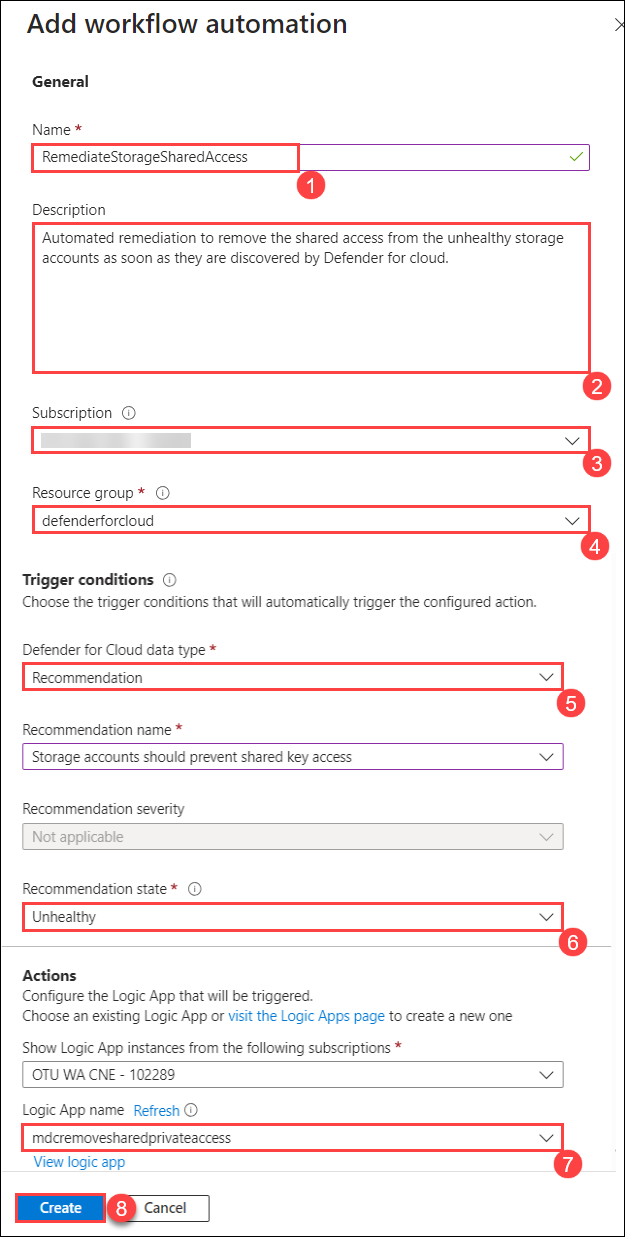
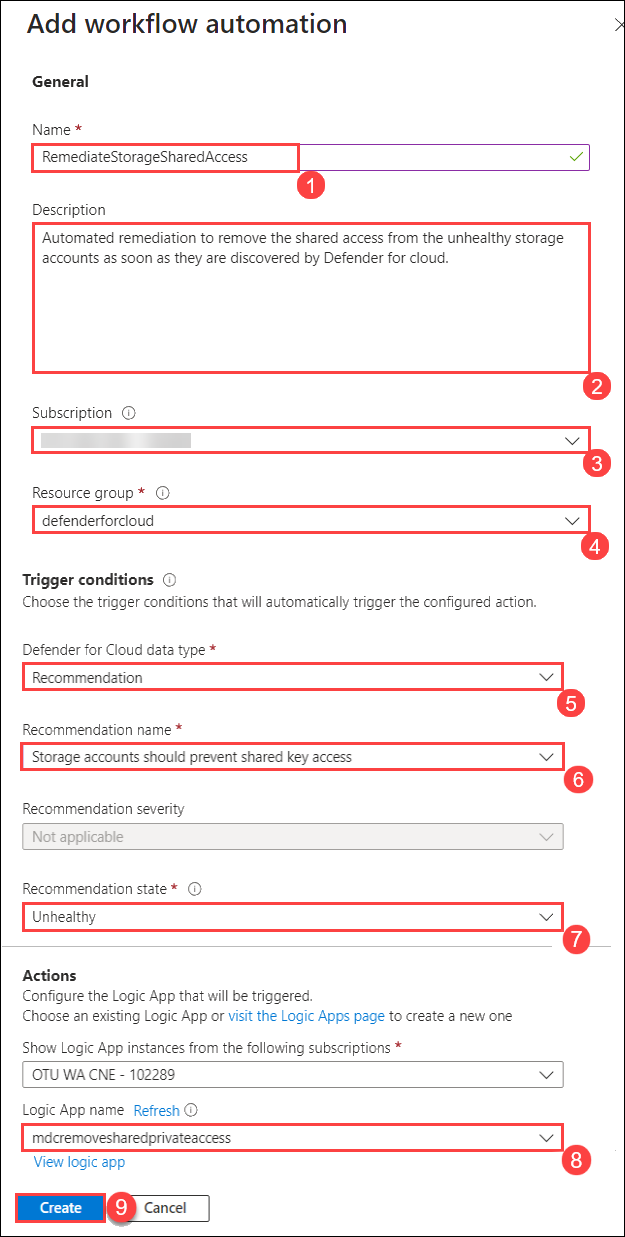
Updated

diff --git a/Instructions/Labs/Module 3 - Remediation options.md b/Instructions/Labs/Module 3 - Remediation options.md
@@ -4,6 +4,12 @@ In this module, we will explore how to leverage Defender for Cloud’s built-in 
 
 ## Task 1: Setting Up Automated Remediation
 
+1. Navigate to Azure portal.
+
+1. Search and select **Microsoft Defender for Cloud** from the portal
+
+   ![alert_detected](images/mls2.png)
+
 1. **Configure Workflow Automation:** Defender for Cloud provides a **Workflow Automation** feature to run your Logic App automatically. We covered this in [Module 1](./Module%201%20-%20Recommendation%20triggers.md).
 
    ![Workflow Automation](./images/workflow-automation.png)
@@ -21,8 +27,9 @@ In this module, we will explore how to leverage Defender for Cloud’s built-in 
    | Subscription | Default value **(3)** |
    | Resource group | **defenderforcloud (4)** |
    | Defender for Cloud data type | **Recommendation (5)** |
-   | Recommendation state | **Unhealthy (6)** |
-   | Logic App name | **mdcremovesharedprivateaccess (7)** |
+   | Recommendation name| **Storage accounts should prevent shared key access (6)** |
+   | Recommendation state | **Unhealthy (7)** |
+   | Logic App name | **mdcremovesharedprivateaccess (8)** |
 
    ![Set up new automation](./images/105.png)
 

diff --git a/Instructions/Labs/Module 4 - Bulk remediation.md b/Instructions/Labs/Module 4 - Bulk remediation.md
@@ -38,6 +38,9 @@ In this module, we'll explore an alternative remediation method using Azure Reso
 
    > **Note:** By assigning "Contributor" to a specific subscription, the Logic App will only query and remediate resources within that subscription.
 
+10. Click on **Edit** in the Azure Logic App interface allows which you to modify the existing workflow or configuration of the Logic App.
+
+    ![](./images/157.png)
 
 ## Task 2: Logic App Walkthrough
 
@@ -45,9 +48,20 @@ Once deployed, the Logic App should appear as follows:
 
 ![](./images/bulk-update-1.png)
 
+ >**Note:** Click on **Edit** in the Azure Logic App interface allows you to modify the existing workflow or configuration of the Logic App.
+
+   ![alert_detected](images/mls2.png)
+
 **Step-by-Step Walkthrough:**
 
 1. **Querying Azure Resource Graph (ARG):**
+   
+   - Navigate to Azure portal.
+
+   - Search and select **Microsoft Defender for Cloud** from the portal
+
+     ![alert_detected](images/mls2.png)
+
    - Use the pre-defined query to retrieve data. Each recommendation has a corresponding query available on its page in Defender for Cloud.
 
      ![](./images/bulk-update-step-1-a.png)
